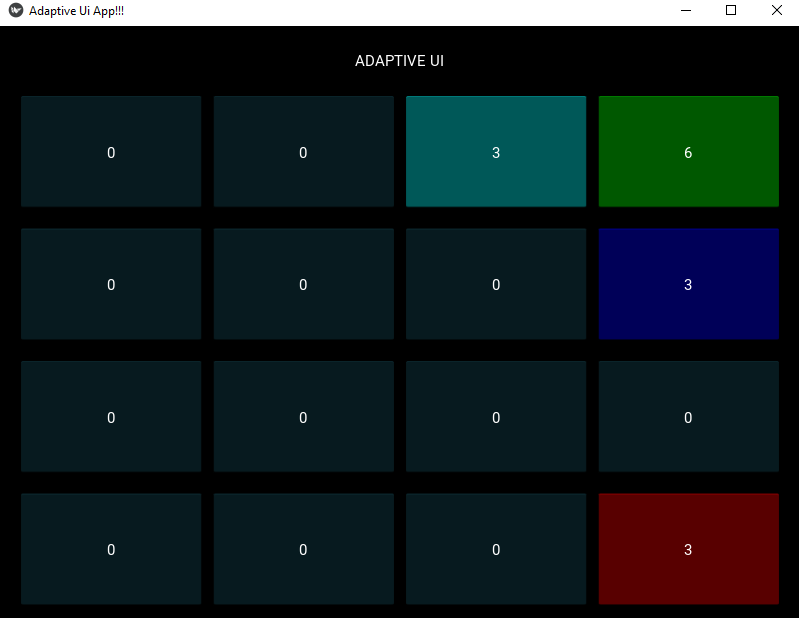
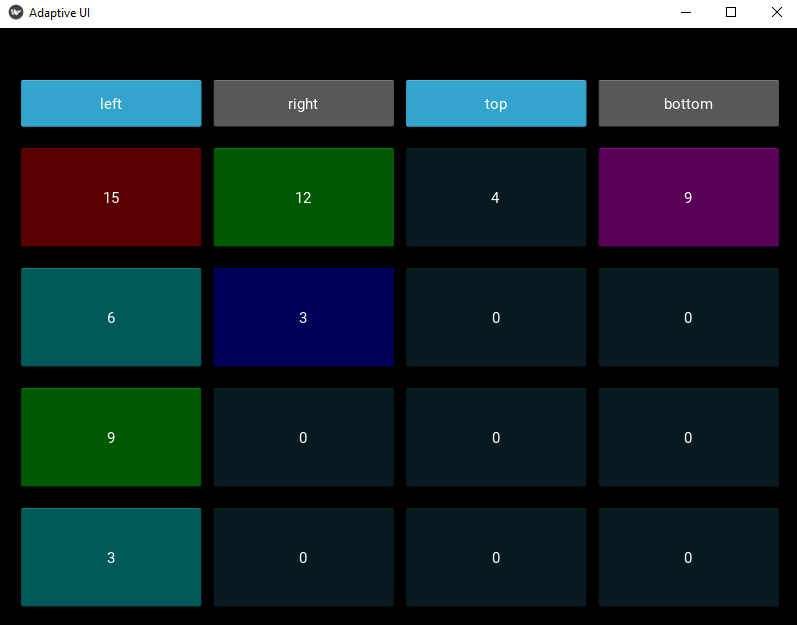
adapt ui via btn moves added

diff --git a/main.py b/main.py
@@ -8,73 +8,138 @@ from kivy.uix.label import Label
 from kivy.uix.boxlayout import BoxLayout
 from kivy.uix.popup import Popup
 from kivy.core.window import Window
-from colors import allcolors, favcolors
+from colors import allcolors, favcolors #, somecolors
 
 class MainApp(App):
 
     def build(self):
         self.title = 'Adaptive UI'
+        self.shift_padding = 20
         self.root = BoxLayout(orientation="vertical", padding=10)  #,size_hint_y=None)
         hor = BoxLayout(orientation="horizontal", padding=10, spacing=10,size_hint_y=None)  # ,size_hint=(None, None))
-        text = ["LEFT","RIGHT","BOTTOM","TOP"]
+        text = ["left","right","top","bottom"]
         for i in range(4):
-            hor.add_widget(ToggleButton(size_hint_y=None, height='48dp', text=text[i], state="down" if i % 2 == 0 else "normal", group="g1" if i < 2 else "g2"))
+            hor.add_widget(ToggleButton(size_hint_y=None, height='48dp', text=text[i], state="down" if i % 2 != 0 else "normal", group="g1" if i < 2 else "g2",on_release=self.on_toggle_click))
         self.root.add_widget(hor)
-        #self.root.add_widget(Label(text="Frequency Analysis",size=(200, 50),size_hint=(1, None)))
-        for i in range(4):
+        self.hor_shift = "right"; self.ver_shift = "bottom"
+        self.topcol = 0; self.toprow = 0
+        self.rows = 4; self.cols = 4
+        for i in range(self.rows):
             hor = BoxLayout(orientation="horizontal", padding=10, spacing=10) #,size_hint=(None, None))
-            for i in range(4):
+            for i in range(self.cols):
                 btn = Button(
-                    text="0",background_color=allcolors[1]) #size=(200, 50),size_hint=(None, None))
+                    text="0",background_color=random.choice(allcolors)) #size=(200, 50),size_hint=(None, None))
                 btn.bind(on_press=self.on_btn_click)
                 hor.add_widget(btn)
             self.root.add_widget(hor)
         return self.root
 
+    def on_toggle_click(self, instance):
+        if instance.group == 'g1': self.hor_shift = instance.text
+        else: self.ver_shift = instance.text
+        instance.state="down"
+        self.topcol = 0 if self.hor_shift == "right" else self.cols - 1
+        self.toprow = 0 if self.ver_shift == "bottom" else self.rows - 1
+        #self.show_popup((instance.text).upper(), "Shift adapt")
+
     def on_btn_click(self, instance):
         freq = int(instance.text) + 1
-        if freq % 3 == 0: self.adapt_row(instance,freq)
-        else: instance.text = str(freq)
-
-    def adapt_row(self,instance,freq):
-        adapt = False
-        row, col, list, maxfreq = self.get_idx_children(instance)
-        if row >= 0 and col >= 0 and list != None:
-            if int(freq) > maxfreq and col > 0:
-                x = instance.x
-                animation = Animation(pos=(x, instance.y), t='out_bounce')
-                animation += Animation(pos=(Window.width-instance.width-20, instance.y), t='out_bounce')
-                animation.start(instance)
-
-                adapt = True
-                l1 = len(list.children)
-                list.remove_widget(instance)
-                l2 = len(list.children)
-                if (l1 - l2 > 0):
-                    list.add_widget(instance)
+        if freq % 3 == 0:
+            self.adapt_ui(instance, freq)
         instance.text = str(freq)
+
+    def swap_top_col(self, freq):
+        maxfreq = 0;
+        for r in range(self.rows):
+            f = int(self.root.children[r].children[self.topcol].text)
+            if f>maxfreq: maxfreq=f
+        return True if freq>maxfreq else False
+
+    def swap_top_row(self, freq, row):
+        maxfreq = 0;
+        for c in range(self.cols):
+            f = int(self.root.children[row].children[c].text)
+            if f>maxfreq: maxfreq = f
+        return True if freq > maxfreq else False
+
+    def swap_row(self, freq, row):
+        if self.hor_shift == "left":
+            col_start = self.cols - 1
+            col_end = 0
+            step = -1
+        else:
+            col_start = 0
+            col_end = self.cols - 1
+            step = 1
+        for c in range(col_start, col_end, step):
+            f = int(self.root.children[row].children[c].text)
+            if freq > f: break
+        return c
+
+    def adapt_ui(self, instance, freq):
+        adapt = False
+        row, col = self.get_idx_children(instance)
+        pos_x = instance.x; pos_y = instance.y
+        anim = Animation(pos=(instance.x, instance.y), t='out_bounce')
+        if row >= 0 and col >= 0:
+            # Row adapt
+            if self.swap_top_row(freq,row):
+                adapt = True
+                self.root.children[row].children[col] = self.root.children[row].children[self.topcol]
+                self.root.children[row].children[self.topcol] = instance
+                pos_x = self.animate_row(instance,anim)
+
+            # Column adapt
+            if self.swap_top_col(freq):
+                adapt = True
+                self.root.children[row].children[self.topcol] = self.root.children[self.toprow].children[self.topcol]
+                self.root.children[self.toprow].children[self.topcol] = instance
+                pos_y = self.animate_col(instance, anim)
+
+            if not(adapt) and col != self.topcol:
+                to_pos_col = self.swap_row(freq,row)
+                if col != to_pos_col:
+                    self.root.children[row].children[col] = self.root.children[row].children[to_pos_col]
+                    self.root.children[row].children[to_pos_col] = instance
+
         if adapt:
-            instance.background_color = random.choice(favcolors)
-            #self.show_popup(f"Frequency click: {freq}\n\nRight shift >>>",f"Row Adapt ({row},{col})")
+            anim += Animation(pos=(pos_x, pos_y), t='out_bounce', d=1)
+            anim.start(instance)
+            #instance.background_color = random.choice(favcolors)
 
     def get_idx_children(self, instance):
-        row = -1; col = -1; maxfreq = 0; list = None
+        row = -1; col = -1
         for child in self.root.children:
             row += 1
             if len(child.children)>0:
                 try: col = child.children.index(instance)
                 except: col = -1
                 if col >= 0:
-                    list = child;
-                    for btn in child.children:
-                        if int(btn.text)>maxfreq: maxfreq=int(btn.text)
                     break
-        return row, col, list, maxfreq
+        return row, col
+
+    def animate_row(self, instance, anim):
+        if self.hor_shift == "right":
+            pos_x = Window.width - instance.width - self.shift_padding
+        else:
+            pos_x = self.shift_padding
+        return pos_x
+
+    def animate_col(self, instance, anim):
+        if self.ver_shift == "bottom":
+            pos_y = self.shift_padding
+        else:
+            pos_y = (instance.height)*self.rows-self.shift_padding
+        return pos_y
 
     def show_popup(self, text="", title="Popup Window"):
-        popupWindow = Popup(title=title, content=Label(text=text), size_hint=(None, None),
-                            size=(Window.width / 2, Window.height / 4))
-        popupWindow.open()
+        popup = Popup(title=title, size_hint=(None, None),
+                      size=(Window.width / 2, Window.height / 4))
+        layout = BoxLayout(orientation="vertical", padding=10)
+        layout.add_widget(Label(text=text))
+        layout.add_widget(Button(text="OK",on_press=popup.dismiss))
+        popup.content = layout
+        popup.open()
 
 if __name__ == "__main__":
     app = MainApp()

diff --git a/colors.py b/colors.py
@@ -6,3 +6,14 @@ blue = [0,0,1,1]
 purple = [1,0,1,1]
 favcolors = [red, green, blue, lgreen, purple]
 allcolors = [red, gray, green, blue, lgreen, purple]
+
+# somecolors = []
+# x = float(.01); y = float(.01); z = float(.01)
+# while (x <= 1.):
+#     while (y <= 1.):
+#         while (z <= 1.):
+#             clr = [x,y,z,1]
+#             somecolors.append(clr)
+#             z += .1
+#         y += .1
+#     x += .1
